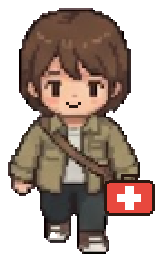
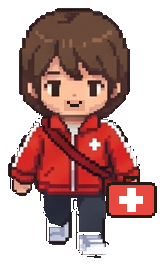
보건 대원 빨간 점퍼 그림 적용, 예상 시간 숫자 변경, ! 눌러 미션 시작
Claude-Session: https://claude.ai/code/session_01M3oCRBCoW4axAP59sucKhu

diff --git a/content.js b/content.js
@@ -16,16 +16,16 @@ window.CONTENT = {
      viewX, viewY : 미션 화면 배경으로 확대해 보여 줄 장소의 가운데 (지도 %)
      --------------------------------------------------------------- */
   zones: [
-    { id: 1,  name: "너구리",       topic: "화상",            place: "너구리 라면",   char: "zone1_raccoon",    badge: "badge_01", time: [3, 5],  rounds: ["1"],        x: 31, y: 30, viewX: 29, viewY: 17 },
-    { id: 2,  name: "제비",         topic: "발목 염좌",        place: "흥부네 집",     char: "zone2_swallow",    badge: "badge_02", time: [3, 5],  rounds: ["2"],        x: 50, y: 28, viewX: 50, viewY: 15 },
-    { id: 3,  name: "호랑이",       topic: "영구치 손상",      place: "떡 방앗간",     char: "zone3_tiger",      badge: "badge_03", time: [3, 5],  rounds: ["3"],        x: 82, y: 55, viewX: 86, viewY: 37 },
-    { id: 4,  name: "곰돌이",       topic: "벌 쏘임",          place: "꿀벌 꽃밭",     char: "zone4_bear",       badge: "badge_04", time: [3, 5],  rounds: ["4"],        x: 80, y: 65, viewX: 80, viewY: 62 },
-    { id: 5,  name: "코끼리",       topic: "코피",             place: "도토리 숲",     char: "zone5_elephant",   badge: "badge_05", time: [3, 5],  rounds: ["5"],        x: 80, y: 86, viewX: 82, viewY: 83 },
-    { id: 6,  name: "아기 토끼",    topic: "찰과상·심한 출혈", place: "달리기 운동장", char: "zone6_rabbit",     badge: "badge_06", time: [5, 8],  rounds: ["6-1", "6-2"], x: 50, y: 82, viewX: 50, viewY: 87 },
-    { id: 7,  name: "악어",         topic: "눈 이물질",        place: "모래 놀이터",   char: "zone7_crocodile",  badge: "badge_07", time: [3, 5],  rounds: ["7"],        x: 22, y: 76, viewX: 22, viewY: 74 },
-    { id: 8,  name: "다람쥐",       topic: "아나필락시스",     place: "밤 축제 마당",  char: "zone8_squirrel",   badge: "badge_08", time: [3, 5],  rounds: ["8"],        x: 22, y: 50, viewX: 20, viewY: 48 },
-    { id: 9,  name: "딱따구리",     topic: "머리 손상",        place: "숲속 축구장",   char: "zone9_woodpecker", badge: "badge_09", time: [5, 8],  rounds: ["9-1", "9-2"], x: 72, y: 20, viewX: 72, viewY: 20 },
-    { id: 10, name: "거북이 촌장님", topic: "심폐소생술·AED",  place: "가운데 분수 광장", char: "zone10_turtle", badge: "badge_10", time: [6, 10], rounds: [],           x: 50, y: 57, viewX: 50, viewY: 50 }
+    { id: 1,  name: "너구리",       topic: "화상",            place: "너구리 라면",   char: "zone1_raccoon",    badge: "badge_01", time: 1,    rounds: ["1"],        x: 31, y: 30, viewX: 29, viewY: 17 },
+    { id: 2,  name: "제비",         topic: "발목 염좌",        place: "흥부네 집",     char: "zone2_swallow",    badge: "badge_02", time: 1,    rounds: ["2"],        x: 50, y: 28, viewX: 50, viewY: 15 },
+    { id: 3,  name: "호랑이",       topic: "영구치 손상",      place: "떡 방앗간",     char: "zone3_tiger",      badge: "badge_03", time: 1,    rounds: ["3"],        x: 82, y: 55, viewX: 86, viewY: 37 },
+    { id: 4,  name: "곰돌이",       topic: "벌 쏘임",          place: "꿀벌 꽃밭",     char: "zone4_bear",       badge: "badge_04", time: 1,    rounds: ["4"],        x: 80, y: 65, viewX: 80, viewY: 62 },
+    { id: 5,  name: "코끼리",       topic: "코피",             place: "도토리 숲",     char: "zone5_elephant",   badge: "badge_05", time: 1,    rounds: ["5"],        x: 80, y: 86, viewX: 82, viewY: 83 },
+    { id: 6,  name: "아기 토끼",    topic: "찰과상·심한 출혈", place: "달리기 운동장", char: "zone6_rabbit",     badge: "badge_06", time: 1.5,  rounds: ["6-1", "6-2"], x: 50, y: 82, viewX: 50, viewY: 87 },
+    { id: 7,  name: "악어",         topic: "눈 이물질",        place: "모래 놀이터",   char: "zone7_crocodile",  badge: "badge_07", time: 1,    rounds: ["7"],        x: 22, y: 76, viewX: 22, viewY: 74 },
+    { id: 8,  name: "다람쥐",       topic: "아나필락시스",     place: "밤 축제 마당",  char: "zone8_squirrel",   badge: "badge_08", time: 1,    rounds: ["8"],        x: 22, y: 50, viewX: 20, viewY: 48 },
+    { id: 9,  name: "딱따구리",     topic: "머리 손상",        place: "숲속 축구장",   char: "zone9_woodpecker", badge: "badge_09", time: 1.5,  rounds: ["9-1", "9-2"], x: 72, y: 20, viewX: 72, viewY: 20 },
+    { id: 10, name: "거북이 촌장님", topic: "심폐소생술·AED",  place: "가운데 분수 광장", char: "zone10_turtle", badge: "badge_10", time: 2,   rounds: [],           x: 50, y: 57, viewX: 50, viewY: 50 }
   ],
 
   /* ---------------------------------------------------------------
@@ -642,8 +642,8 @@ window.CONTENT = {
     soundNames: { bgm: "배경음", sfx: "효과음", metronome: "메트로놈(10구역)" },
     soundNote: "처음에는 모두 꺼져 있어요. 학생도 화면에서 켜고 끌 수 있어요.",
     checkHead: "③ 확인하기",
-    summary: "선택 {n}개 구역 · 예상 시간 {min}~{max}분",
-    timeNote: "학생 시범 사용 전 예상치예요.",
+    summary: "선택 {n}개 구역 · 예상 시간 약 {time}",
+    timeNote: "학생이 직접 해 본 시간을 바탕으로 한 예상 시간이에요.",
     answerPreview: "정답·해설 미리보기",
     answerBag: "구급가방 정답({n}개)",
     answerNote: "교사용 주소에서만 보여요. 학생용 링크에는 정답이 들어가지 않아요.",
@@ -652,7 +652,7 @@ window.CONTENT = {
     makeButton: "링크·QR 만들기",
     stickyNone: "구역을 골라 주세요",
     stickyPicked: "{n}개 구역 선택",
-    stickyTime: "예상 {min}~{max}분",
+    stickyTime: "예상 약 {time}",
     creditsButton: "만든 사람 · 소리 출처",
     noZoneTitle: "구역을 1개 이상 골라 주세요",
     noZoneNote: "구역을 고르지 않으면 링크와 QR을 만들 수 없어요.",

diff --git a/js/village.js b/js/village.js
@@ -38,6 +38,13 @@ const Village = {
       const el = document.createElement('div');
       el.className = 'npc';
       el.innerHTML = `<span class="marker"></span><img class="pixel" src="assets/chars/${z.char}.png" alt="${esc(z.name)}"><span class="npc-name">${z.id}구역 ${esc(z.name)}</span>`;
+      // 머리 위 '!'를 누르면 거리와 상관없이 바로 미션 시작 (완료·잠김 표시는 누르지 않음)
+      const marker = el.querySelector('.marker');
+      marker.addEventListener('pointerdown', e => { if (marker.classList.contains('need')) e.stopPropagation(); });
+      marker.addEventListener('click', e => {
+        e.stopPropagation();
+        if (this.active && marker.classList.contains('need')) this.startZone(z.id);
+      });
       this.world.appendChild(el);
       this.npcEls[z.id] = el;
     });
@@ -203,13 +210,13 @@ const Village = {
   draw() {
     if (!this.s) return;
     const k = this.PLAYER_SCALE * this.s, fw = 112 * k, fh = 150 * k;
-    // 걷기 그림 칸: 정면(1행)·뒷모습(2행)·옆모습(3행 2~4칸, 왼쪽은 좌우 반전)
-    const frames = { down: [[0, 0], [0, 1], [0, 2], [0, 3]], up: [[1, 0], [1, 1], [1, 2], [1, 3]], right: [[2, 1], [2, 2], [2, 3]], left: [[2, 1], [2, 2], [2, 3]] }[this.dir];
+    // 걷기 그림 칸: 정면(1행)·뒷모습(2행)·오른쪽(3행)·왼쪽(4행)
+    const frames = { down: [0, 1, 2, 3].map(c => [0, c]), up: [0, 1, 2, 3].map(c => [1, c]), right: [0, 1, 2, 3].map(c => [2, c]), left: [0, 1, 2, 3].map(c => [3, c]) }[this.dir];
     const f = this.moving ? frames[Math.floor(this.walkT * 8) % frames.length] : frames[0];
     this.player.style.backgroundPosition = `${-f[1] * fw}px ${-f[0] * fh}px`;
     this.player.style.left = (this.pos.x * this.s) + 'px';
     this.player.style.top = (this.pos.y * this.s) + 'px';
-    this.player.style.transform = `translate(-50%, -100%)${this.dir === 'left' ? ' scaleX(-1)' : ''}`;
+    this.player.style.transform = 'translate(-50%, -100%)';
     this.player.style.zIndex = Math.round(this.pos.y);
     // 카메라: 보건 대원을 가운데로 (지도 밖은 안 보이게)
     const W = this.view.clientWidth, H = this.view.clientHeight;
@@ -239,9 +246,10 @@ const Village = {
   },
 
   help() {
-    if (!this.nearId) return;
+    if (this.nearId) this.startZone(this.nearId);
+  },
+  startZone(id) {
     Sound.play('click');
-    const id = this.nearId;
     if (id === 10 && typeof CPR === 'undefined') {
       showPopup({ title: '10구역 심폐소생술·AED', body: '<p style="text-align:center">10구역은 3단계에서 이어서 만들어요.</p>' });
       return;

diff --git a/js/teacher.js b/js/teacher.js
@@ -53,7 +53,7 @@
       <div class="pic"><img class="pixel" src="assets/chars/${z.char}.png" alt=""></div>
       <div class="zname">${z.id}구역 · ${esc(z.topic)}</div>
       <div class="zplace">${esc(z.name)} · ${esc(z.place)}${rounds}</div>
-      <div class="ztime">${z.time[0]}~${z.time[1]}분</div>`;
+      <div class="ztime">약 ${minutesText(z.time)}</div>`;
     card.addEventListener('click', () => { toggleZone(z.id); });
     card.dataset.id = z.id;
     grid.appendChild(card);
@@ -85,12 +85,11 @@
       b.innerHTML = `${esc(T.soundNames[b.dataset.key])} <span class="state">${on ? '켜기' : '끄기'}</span>`;
     });
     const picked = C.zones.filter(z => state.zones.has(z.id));
-    const min = picked.reduce((s, z) => s + z.time[0], 0);
-    const max = picked.reduce((s, z) => s + z.time[1], 0);
-    $('summary').textContent = fillText(T.summary, { n: picked.length, min, max });
+    const time = minutesText(picked.reduce((s, z) => s + z.time, 0));
+    $('summary').textContent = fillText(T.summary, { n: picked.length, time });
     // 휴대폰 아래 띠
     $('stickySum').innerHTML = picked.length
-      ? `<b>${esc(fillText(T.stickyPicked, { n: picked.length }))}</b><br>${esc(fillText(T.stickyTime, { min, max }))}`
+      ? `<b>${esc(fillText(T.stickyPicked, { n: picked.length }))}</b><br>${esc(fillText(T.stickyTime, { time }))}`
       : `<b>${esc(T.stickyNone)}</b>`;
   }
   render();

diff --git a/css/common.css b/css/common.css
@@ -317,7 +317,8 @@ h1 { font-size: 34px; } h2 { font-size: 26px; } h3 { font-size: 22px; }
   font-family: var(--font-title); font-weight: 700; font-size: 20px; line-height: 1;
   border: 3px solid var(--wood-dark); border-radius: 10px; padding: 4px 9px; margin-bottom: 4px; background: #fff;
 }
-.marker.need { background: var(--gold); font-size: 26px; animation: bob 1s ease-in-out infinite; }
+.marker.need { background: var(--gold); font-size: 26px; animation: bob 1s ease-in-out infinite; pointer-events: auto; cursor: pointer; position: relative; }
+.marker.need::after { content: ""; position: absolute; inset: -14px; }   /* 손가락으로 누르기 쉽게 누르는 자리를 넓힘 */
 .marker.done { background: var(--ok); color: #fff; }
 .marker.lock { background: #d8ccc0; font-size: 16px; }
 @keyframes bob { 50% { transform: translateY(-6px); } }

diff --git a/js/common.js b/js/common.js
@@ -116,3 +116,9 @@ function revealResult(el) {
 function esc(s) {
   return String(s).replace(/[&<>"']/g, c => ({ '&': '&amp;', '<': '&lt;', '>': '&gt;', '"': '&quot;', "'": '&#39;' }[c]));
 }
+
+/* 예상 시간(분) 글자로: 1.5 → '1분 30초', 12 → '12분' */
+function minutesText(m) {
+  const whole = Math.floor(m);
+  return m > whole ? (whole ? whole + '분 30초' : '30초') : whole + '분';
+}
